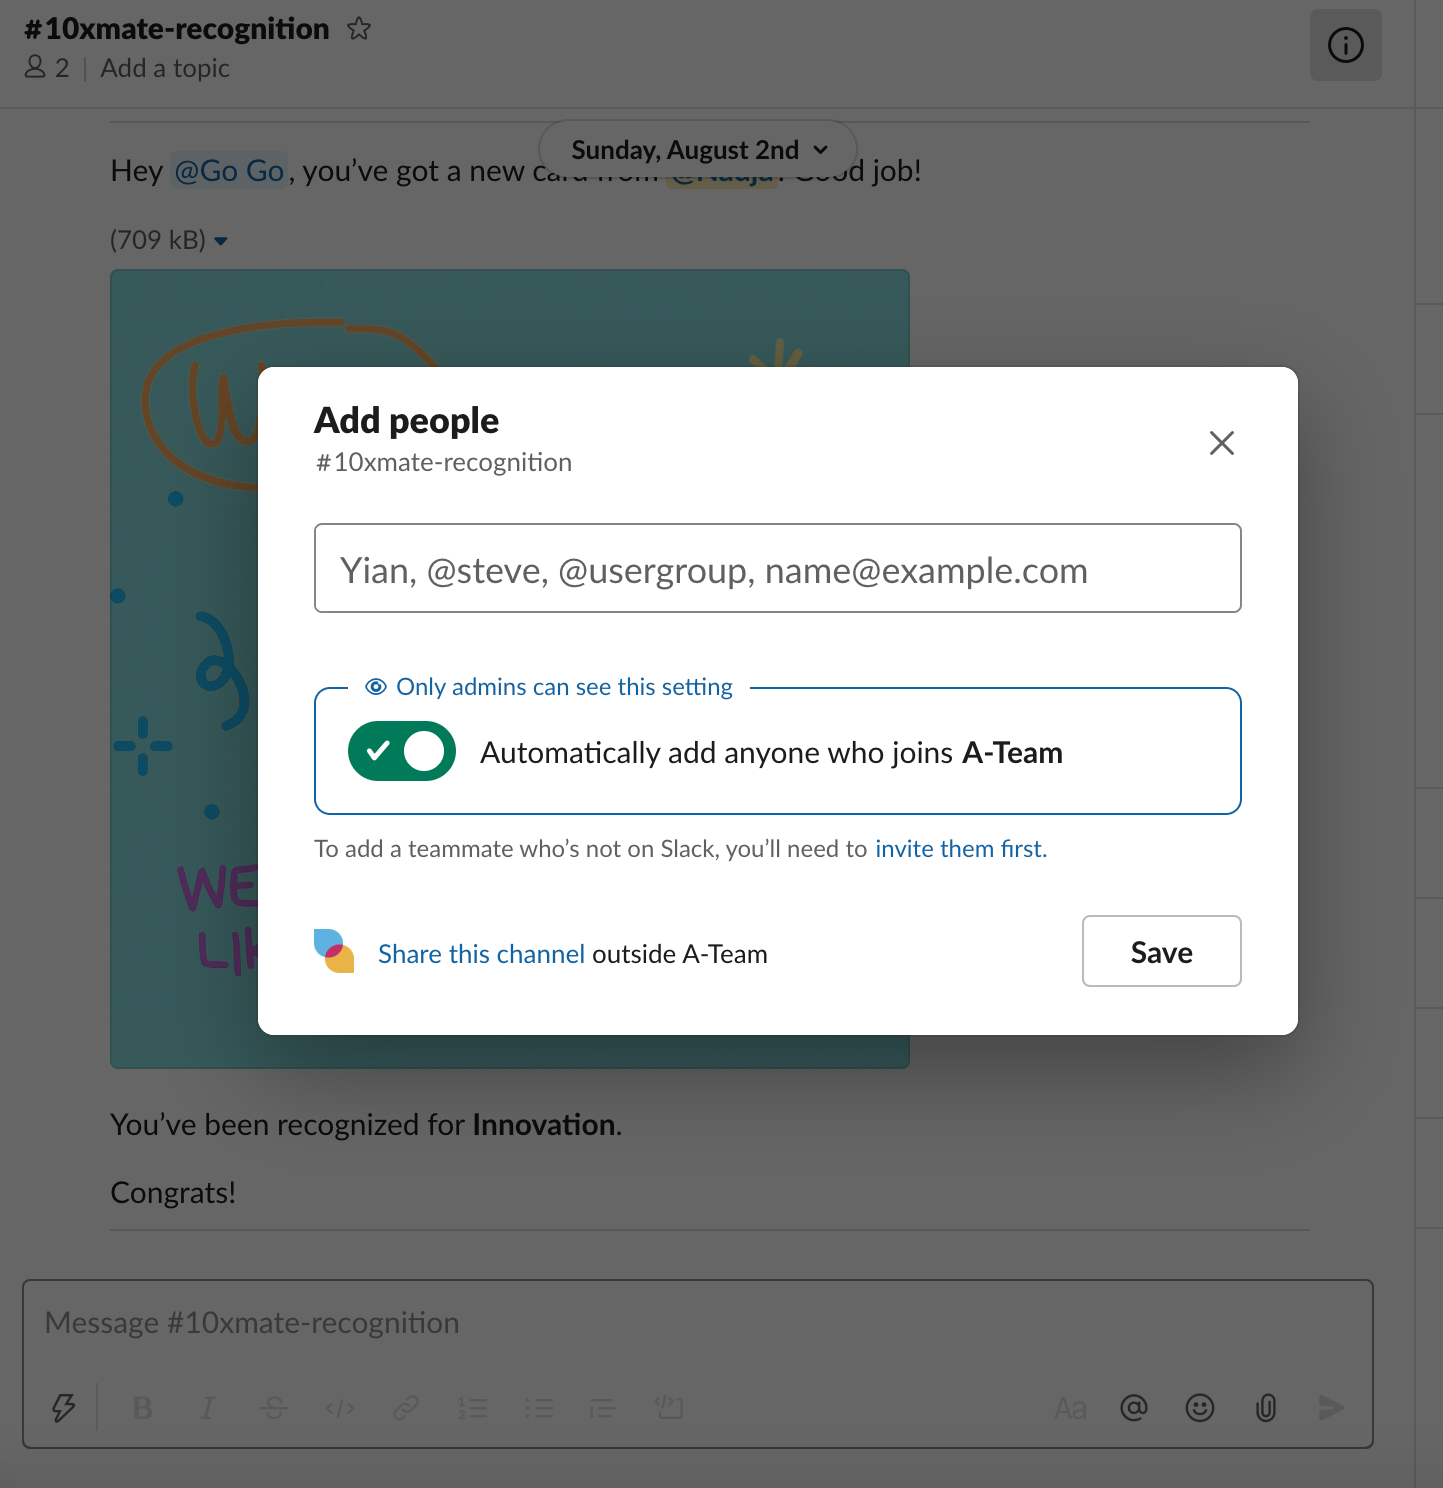
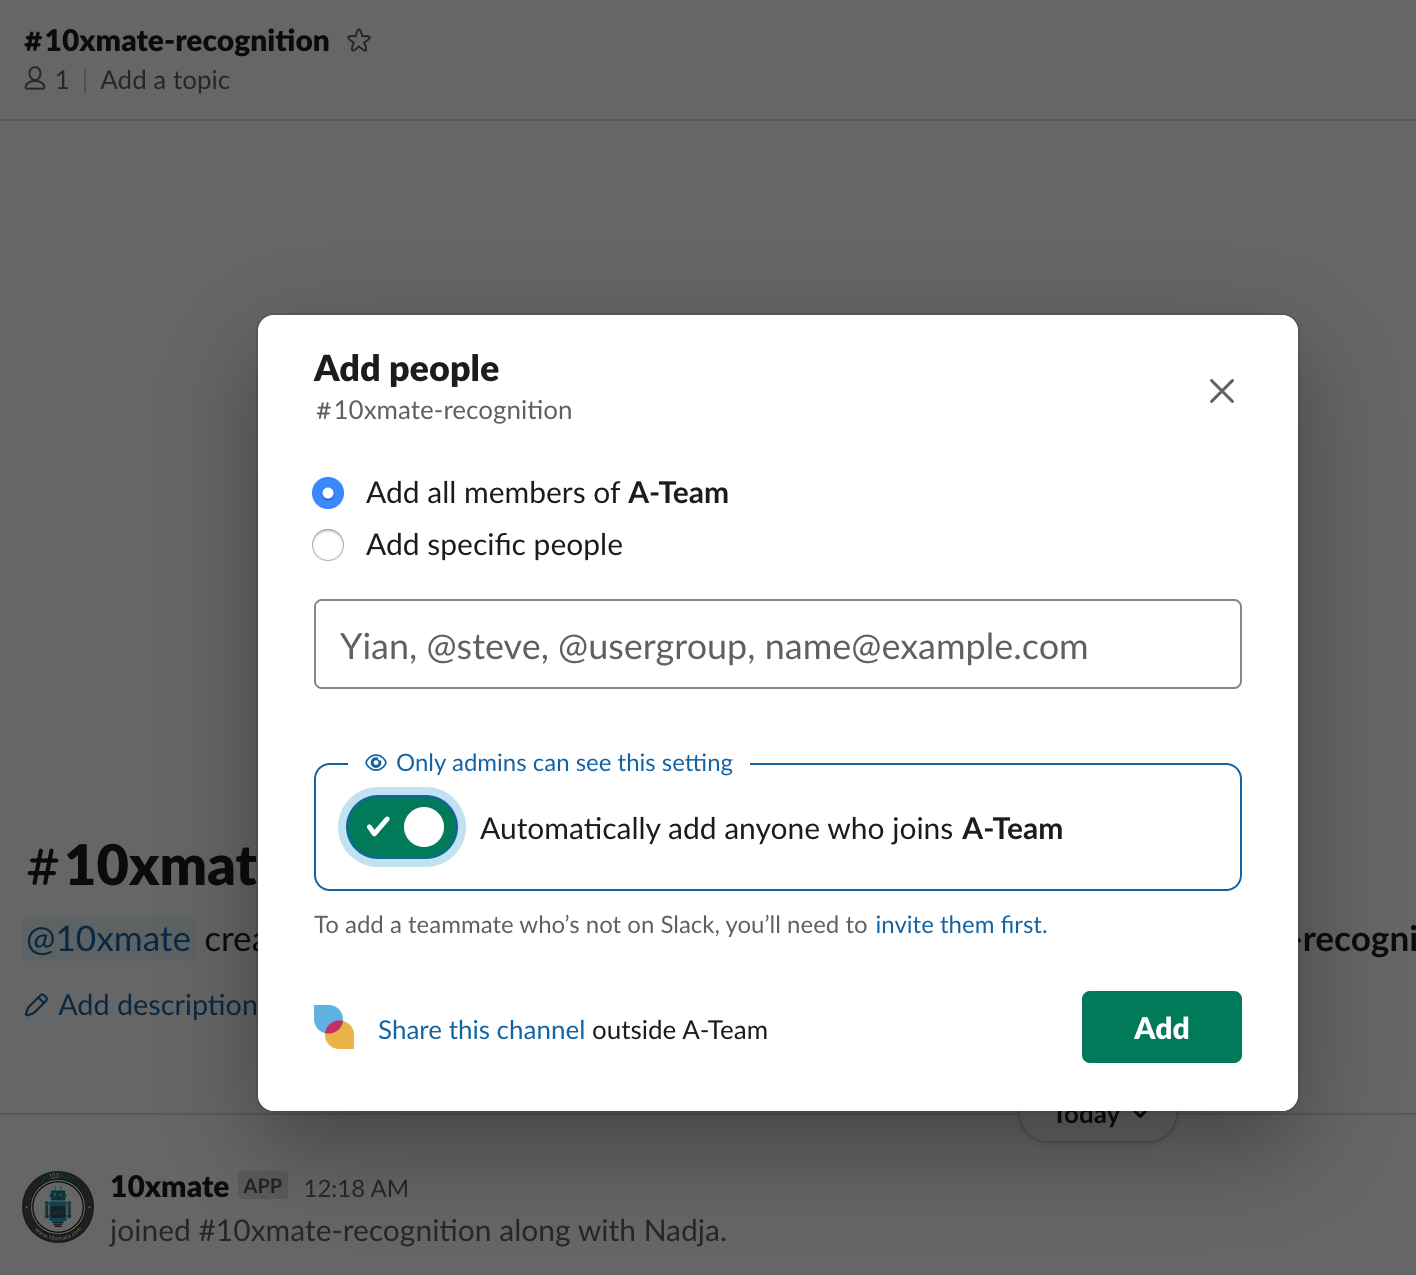
Update the steps of installation

diff --git a/10xmate4slack/index.html b/10xmate4slack/index.html
@@ -218,7 +218,7 @@
                         <div class="cd-timeline__content js-cd-content long-padding-el">
                           <h2>If you see the dancing robot...</h2>
                           <p>
-                            you are there!
+                            you are almost there!
                           </p>
                           <span class="cd-timeline__date seventy__five"><img src="../img/3. RobotkoHappy.gif" alt="Dancing robot"></span>
                         </div>
@@ -232,17 +232,30 @@
                         </div>
                         <!-- cd-timeline__img -->
 
-                        <div class="cd-timeline__content js-cd-content small-padding-el">
-                          <h2>Make sure you review our Terms of Survice and Privacy Policy</h2>
+                        <div class="cd-timeline__content js-cd-content">
+                          <h2>We’ve auto-created a public recognition channel for your team with the name <u>#10xmate-recognition</u>.</h2>
                           <p>
-                             and notify all users that they are also required to read and comply with the Terms and our Privacy Policy.
-                           </p>
-                          <span class="cd-timeline__date">
-                            <ul>
-                              <li><a href="terms-of-use">Terms of Service</a></li>
-                              <li><a href="privacy-policy">Privacy Policy</a></li>
-                            </ul>
-                          </span>
+                            Go back to Slack and find it.
+                          </p>
+                          <span class="cd-timeline__date seventy__five zoom_x_3"><img src="../img/10xmate4slack/browse-channels-and-find.png" alt="Find the 10xmate-channel"></span>
+                        </div>
+                        <!-- cd-timeline__content -->
+                      </div>
+                      <!-- cd-timeline__block -->
+
+
+                      <div class="cd-timeline__block js-cd-block small-padding-el">
+                        <div class="cd-timeline__img cd-timeline__img--picture js-cd-img">
+                          <img src="../img/white10x.svg" alt="10xmate">
+                        </div>
+                        <!-- cd-timeline__img -->
+
+                        <div class="cd-timeline__content js-cd-content">
+                          <h2>When in the <u>#10xmate-recognition</u> channel,</h2>
+                          <p>
+                            add all team members to the channel and make sure you select “Automatically add anyone who joins the team” option.
+                          </p>
+                          <span class="cd-timeline__date seventy__five"><img src="../img/10xmate4slack/add-to-channel-screen.png" alt="Create public channel"></span>
                         </div>
                         <!-- cd-timeline__content -->
                       </div>
@@ -254,12 +267,17 @@
                         </div>
                         <!-- cd-timeline__img -->
 
-                        <div class="cd-timeline__content js-cd-content">
-                          <h2>Optional: If you want to make recognitions visible to all, create a channel with the name <u>10xmate-recognition</u></h2>
+                        <div class="cd-timeline__content js-cd-content small-padding-el">
+                          <h2>Finally, review our Terms of Service and Privacy Policy</h2>
                           <p>
-                            (our bot will recognize the channel only if you use this name)
-                          </p>
-                          <span class="cd-timeline__date seventy__five"><img src="../img/10xmate4slack/add-to-channel-screen.png" alt="Create public channel"></span>
+                             and notify all users that they are required to read and comply with the Terms and our Privacy Policy. And you’re done!
+                           </p>
+                          <span class="cd-timeline__date">
+                            <ul>
+                              <li><a href="terms-of-use">Terms of Service</a></li>
+                              <li><a href="privacy-policy">Privacy Policy</a></li>
+                            </ul>
+                          </span>
                         </div>
                         <!-- cd-timeline__content -->
                       </div>

diff --git a/css/timeline.css b/css/timeline.css
@@ -95,6 +95,10 @@ Patterns - reusable parts of our design
   cursor: zoom-in;
 }
 
+.zoom_x_3 img:hover {
+  transform: scale(3);
+}
+
 .cd-timeline__date ul {
   list-style: none;
 }
